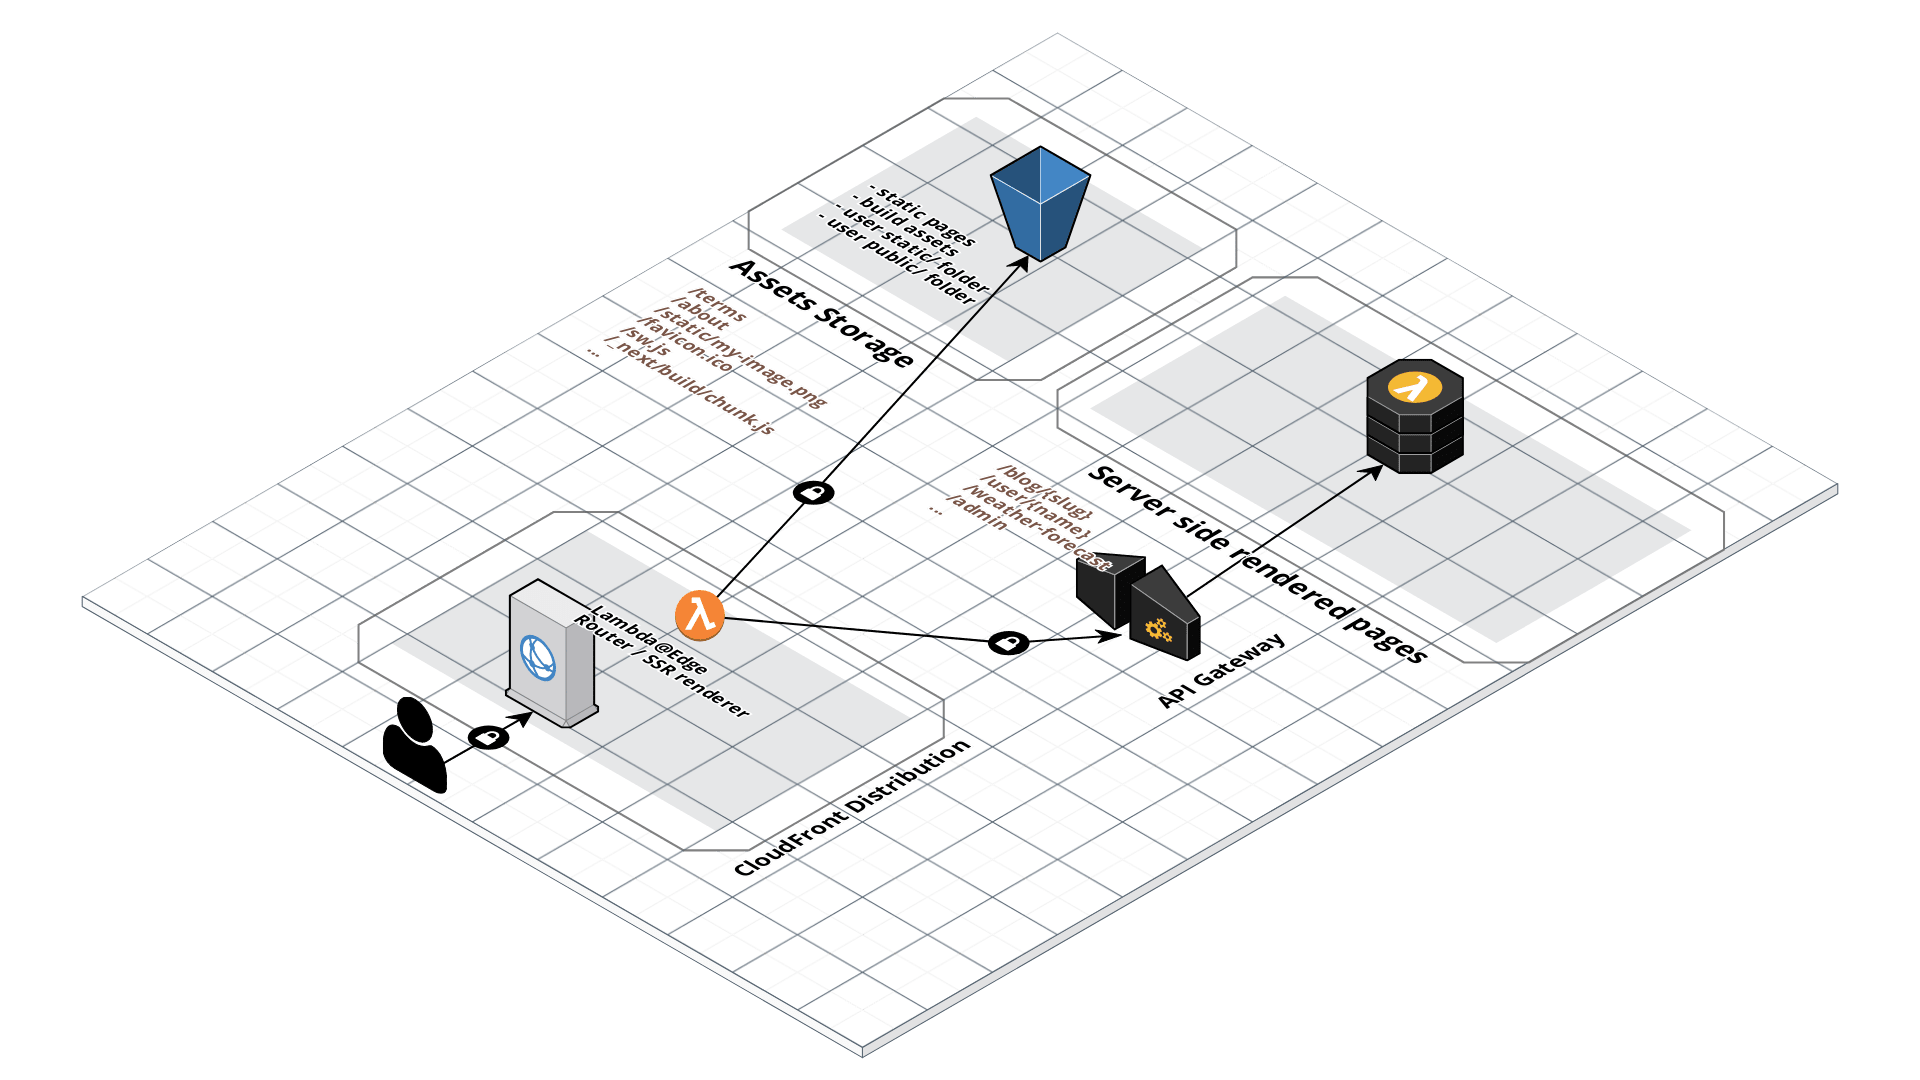
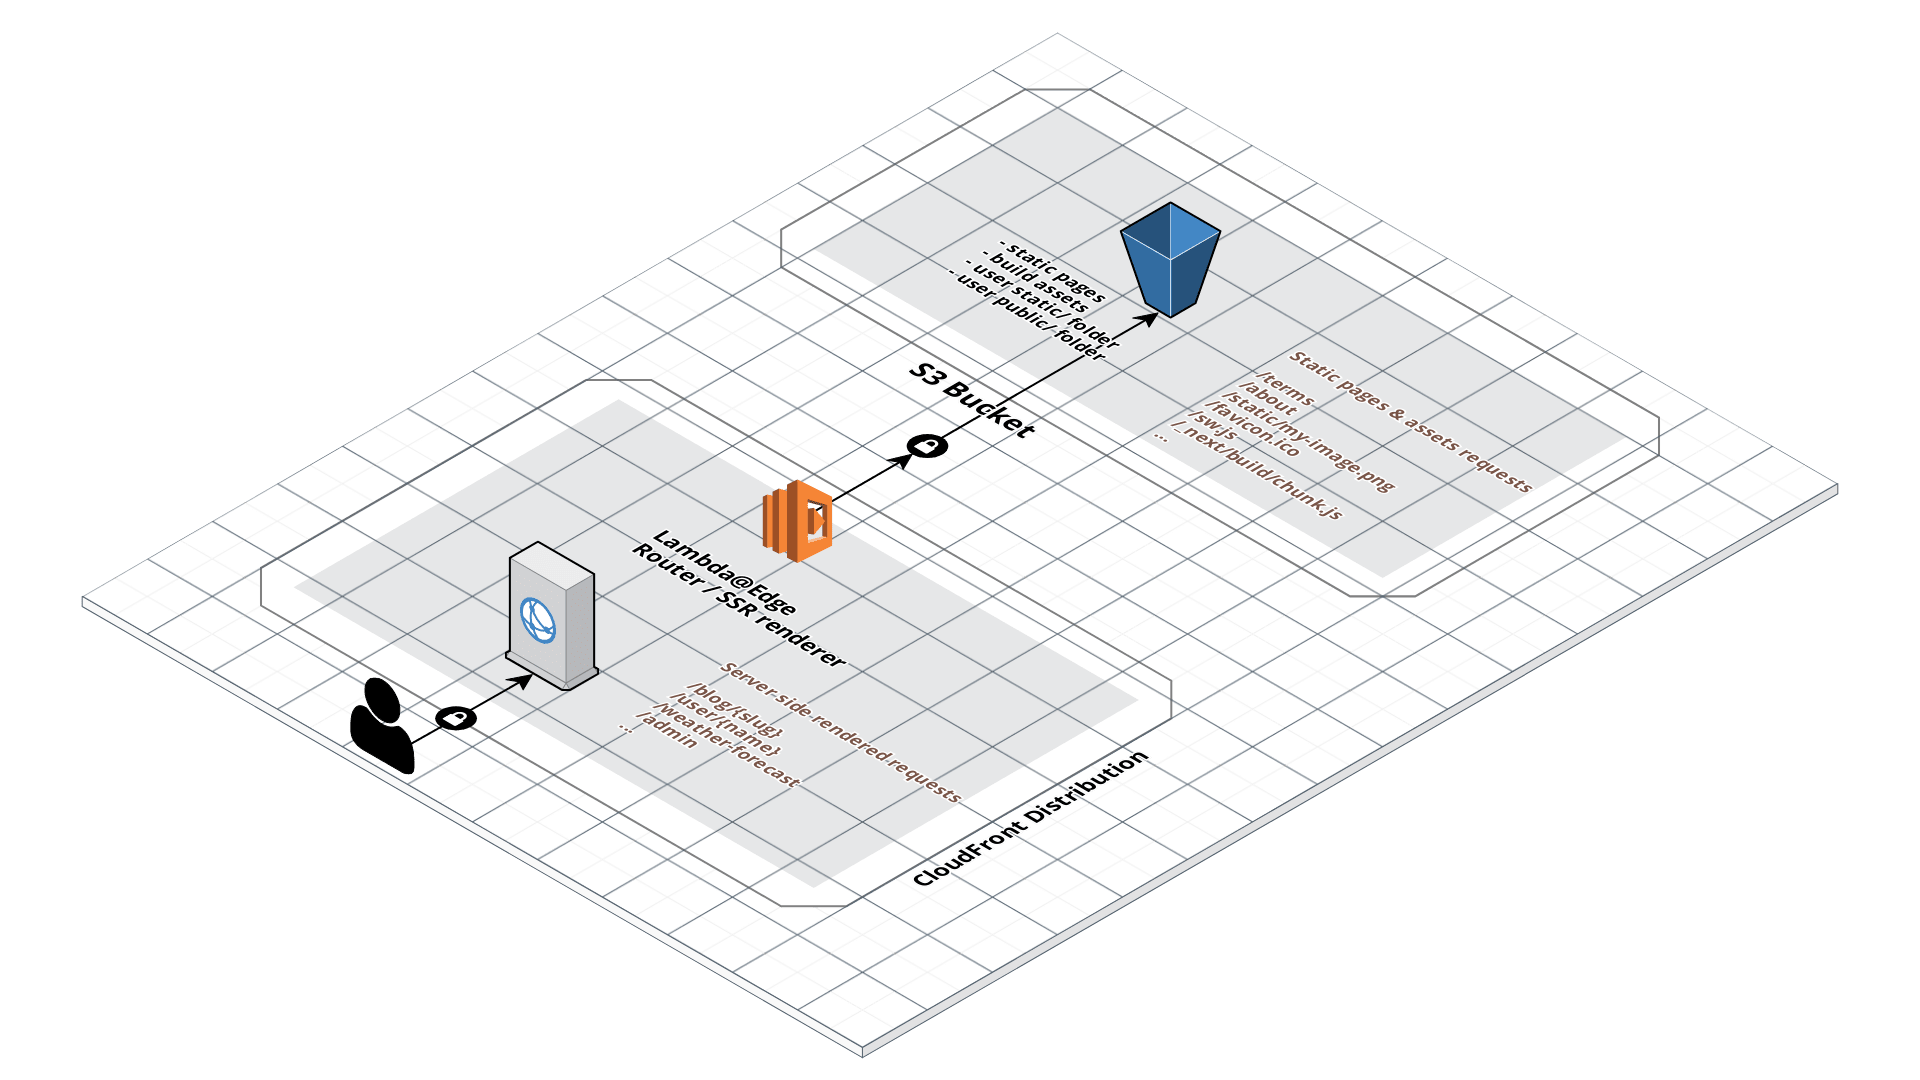
update docs, arch and pass allowedhttpmethods

Changed region(s): [[0.1562, 0.0917, 0.875, 0.825], [0.5938, 0.4583, 0.625, 0.4889], [0.4688, 0.3972, 0.5, 0.4278]]

diff --git a/packages/serverless-nextjs-component/serverless.js b/packages/serverless-nextjs-component/serverless.js
@@ -158,6 +158,15 @@ class NextjsComponent extends Component {
     await cloudFront({
       defaults: {
         ttl: 5,
+        allowedHttpMethods: [
+          "HEAD",
+          "DELETE",
+          "POST",
+          "GET",
+          "OPTIONS",
+          "PUT",
+          "PATCH"
+        ],
         "lambda@edge": {
           "origin-request": `${lambdaAtEdgeOutputs.arn}:${lambdaPublishOutputs.version}`
         }

diff --git a/packages/serverless-nextjs-component/README.md b/packages/serverless-nextjs-component/README.md
@@ -39,8 +39,8 @@ With a simplified architecture and no use of CloudFormation, there are no limits
 
 ### Features
 
-- [x] [Server side rendered pages](https://github.com/zeit/next.js#fetching-data-and-component-lifecycle).
-      Pages that need server side compute to render are hosted on AWS Lambda. The component takes care of all the routing for you so there is no configuration needed. If you want blazing fast response times check out the [lambda@edge](#Fast-SSR-with-Lambda@Edge) section below.
+- [x] [Server side rendered pages at the Edge](https://github.com/zeit/next.js#fetching-data-and-component-lifecycle).
+      Pages that need server side compute to render are hosted on Lambda@Edge. The component takes care of all the routing for you so there is no configuration needed. Because rendering happens at the CloudFront edge locations latency is very low!
 - [x] [Dynamic pages / route segments](https://github.com/zeit/next.js/#dynamic-routing).
 - [x] [Automatic prerendering](https://github.com/zeit/next.js/#automatic-prerendering).
       Statically optimised pages compiled by next are served from CloudFront edge locations with low latency and cost.
@@ -69,21 +69,6 @@ $ serverless
 ### Custom domain name (Coming soon!)
 
 In most cases you wouldn't want to use CloudFront's distribution domain to access your application. Instead, you can specify a custom domain name:
-
-```yml
-# serverless.yml
-
-myNextApplication:
-  component: @serverless/nextjs
-  inputs:
-    domain: myfrontend.example.com
-```
-
-### Fast SSR with Lambda@Edge
-
-You can opt-in to render the server side rendered pages at the CloudFront edge locations. This will result in very low latency times by saving 2 hops and serving the user request from a close location to them.
-
-Enable this functionality by setting `ssr@edge: true`:
 
 ```yml
 # serverless.yml
